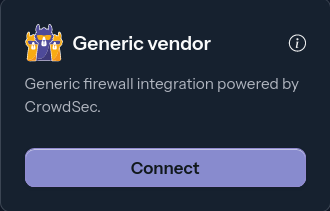
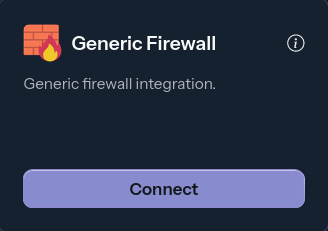
fix: change generic vendor to generic firewall

diff --git a/crowdsec-docs/sidebarsUnversioned.js b/crowdsec-docs/sidebarsUnversioned.js
@@ -329,7 +329,7 @@ module.exports = {
                 "integrations/f5",
                 "integrations/fortinet",
                 "integrations/paloalto",
-                "integrations/genericvendor",
+                "integrations/genericfirewall",
             ]
         }
     ],
